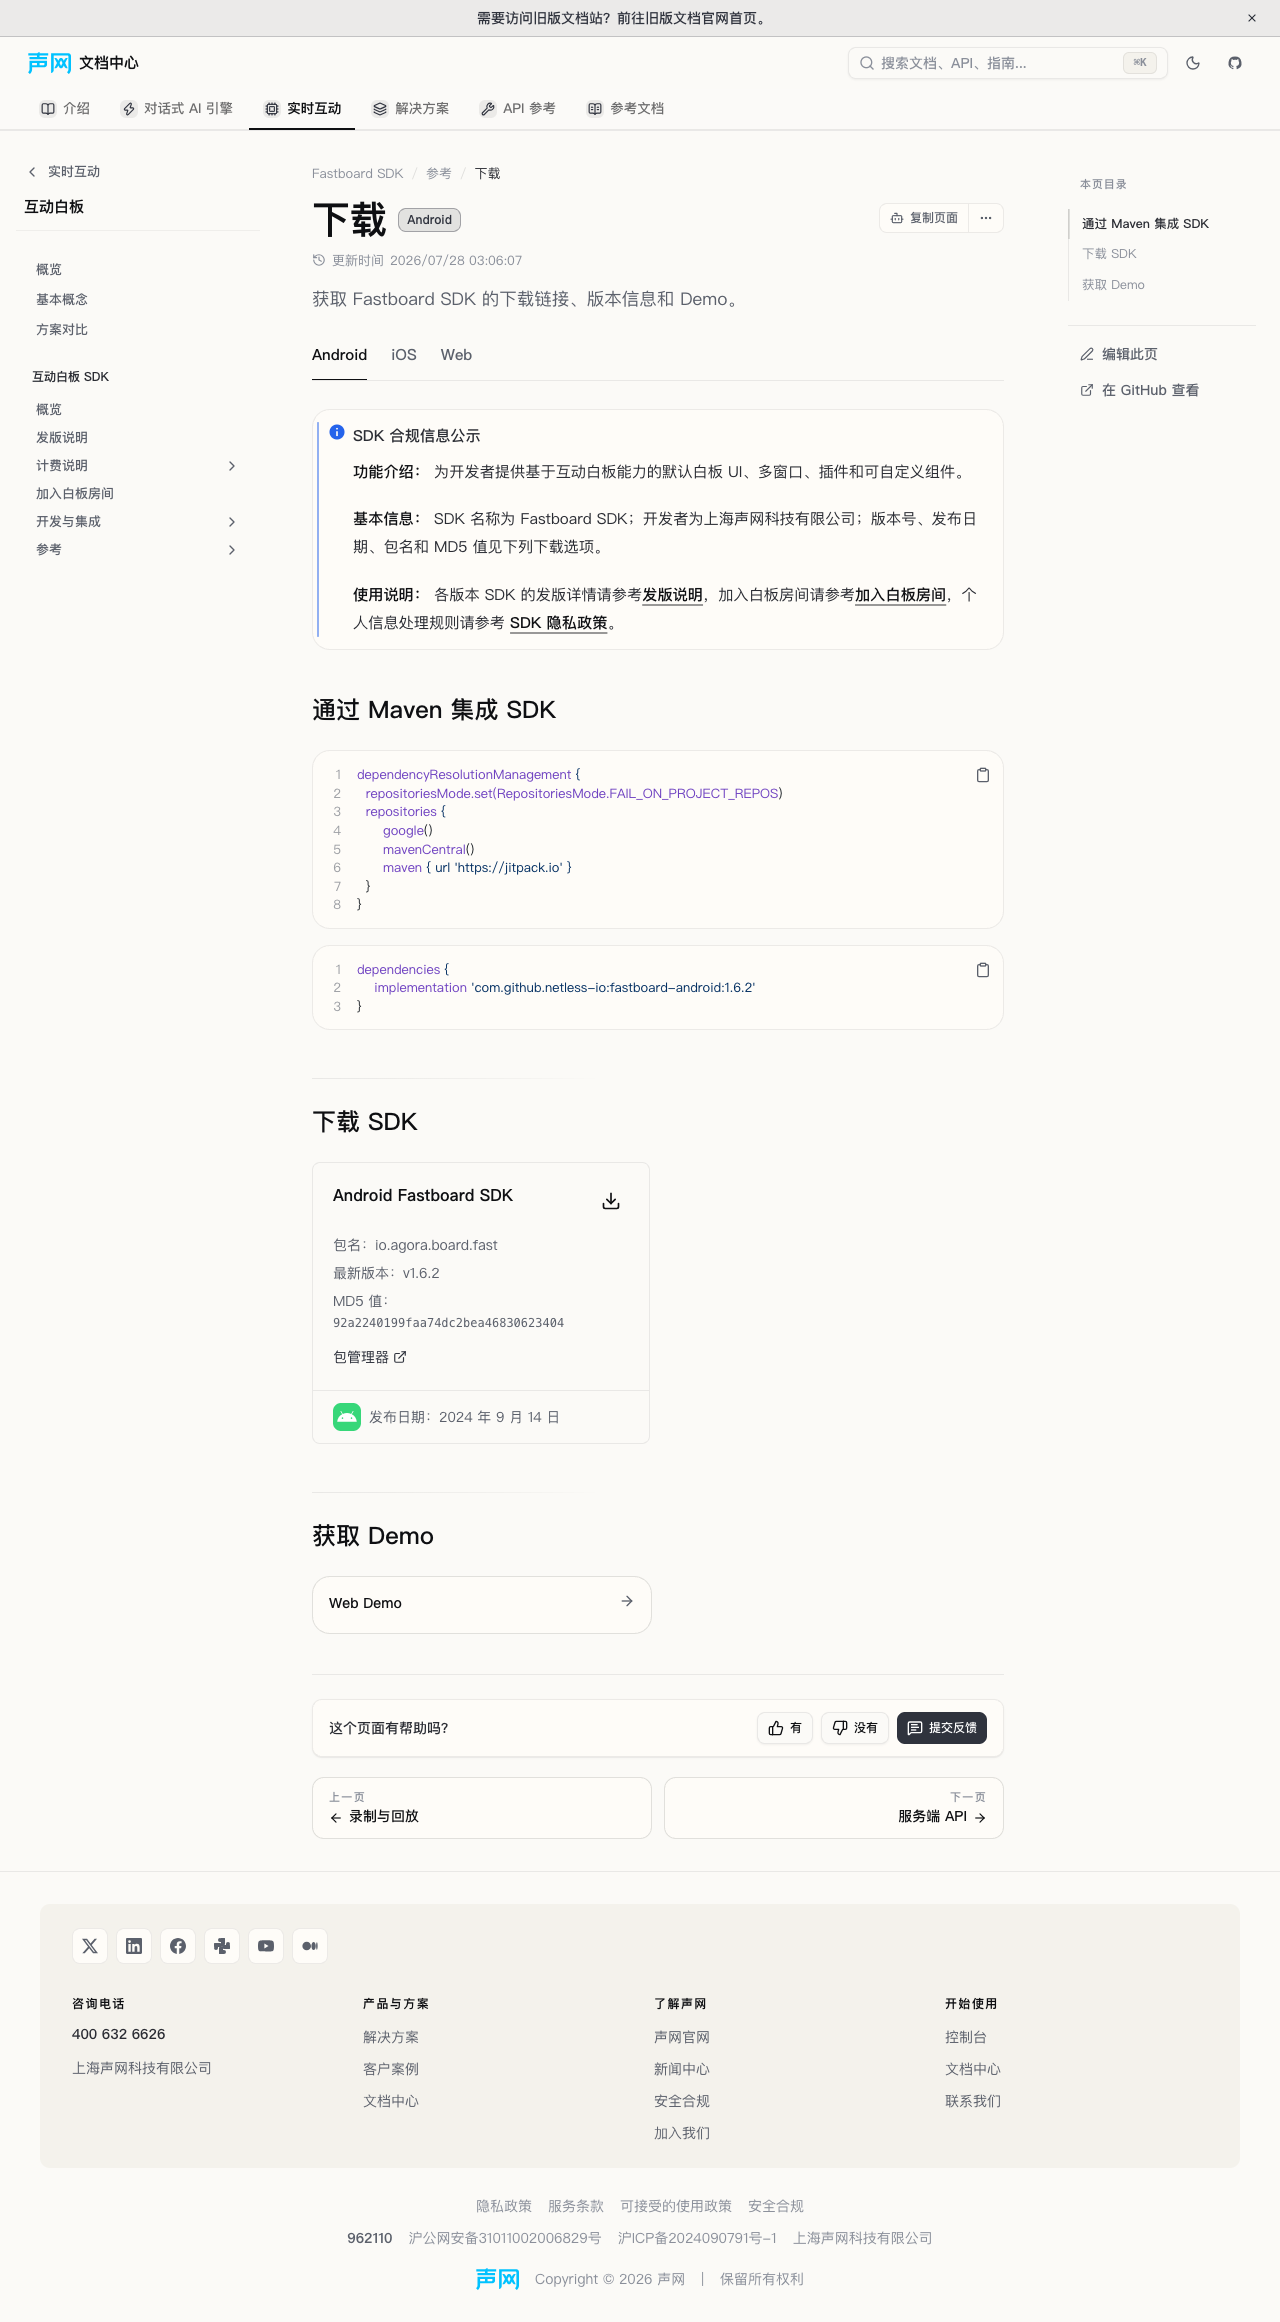
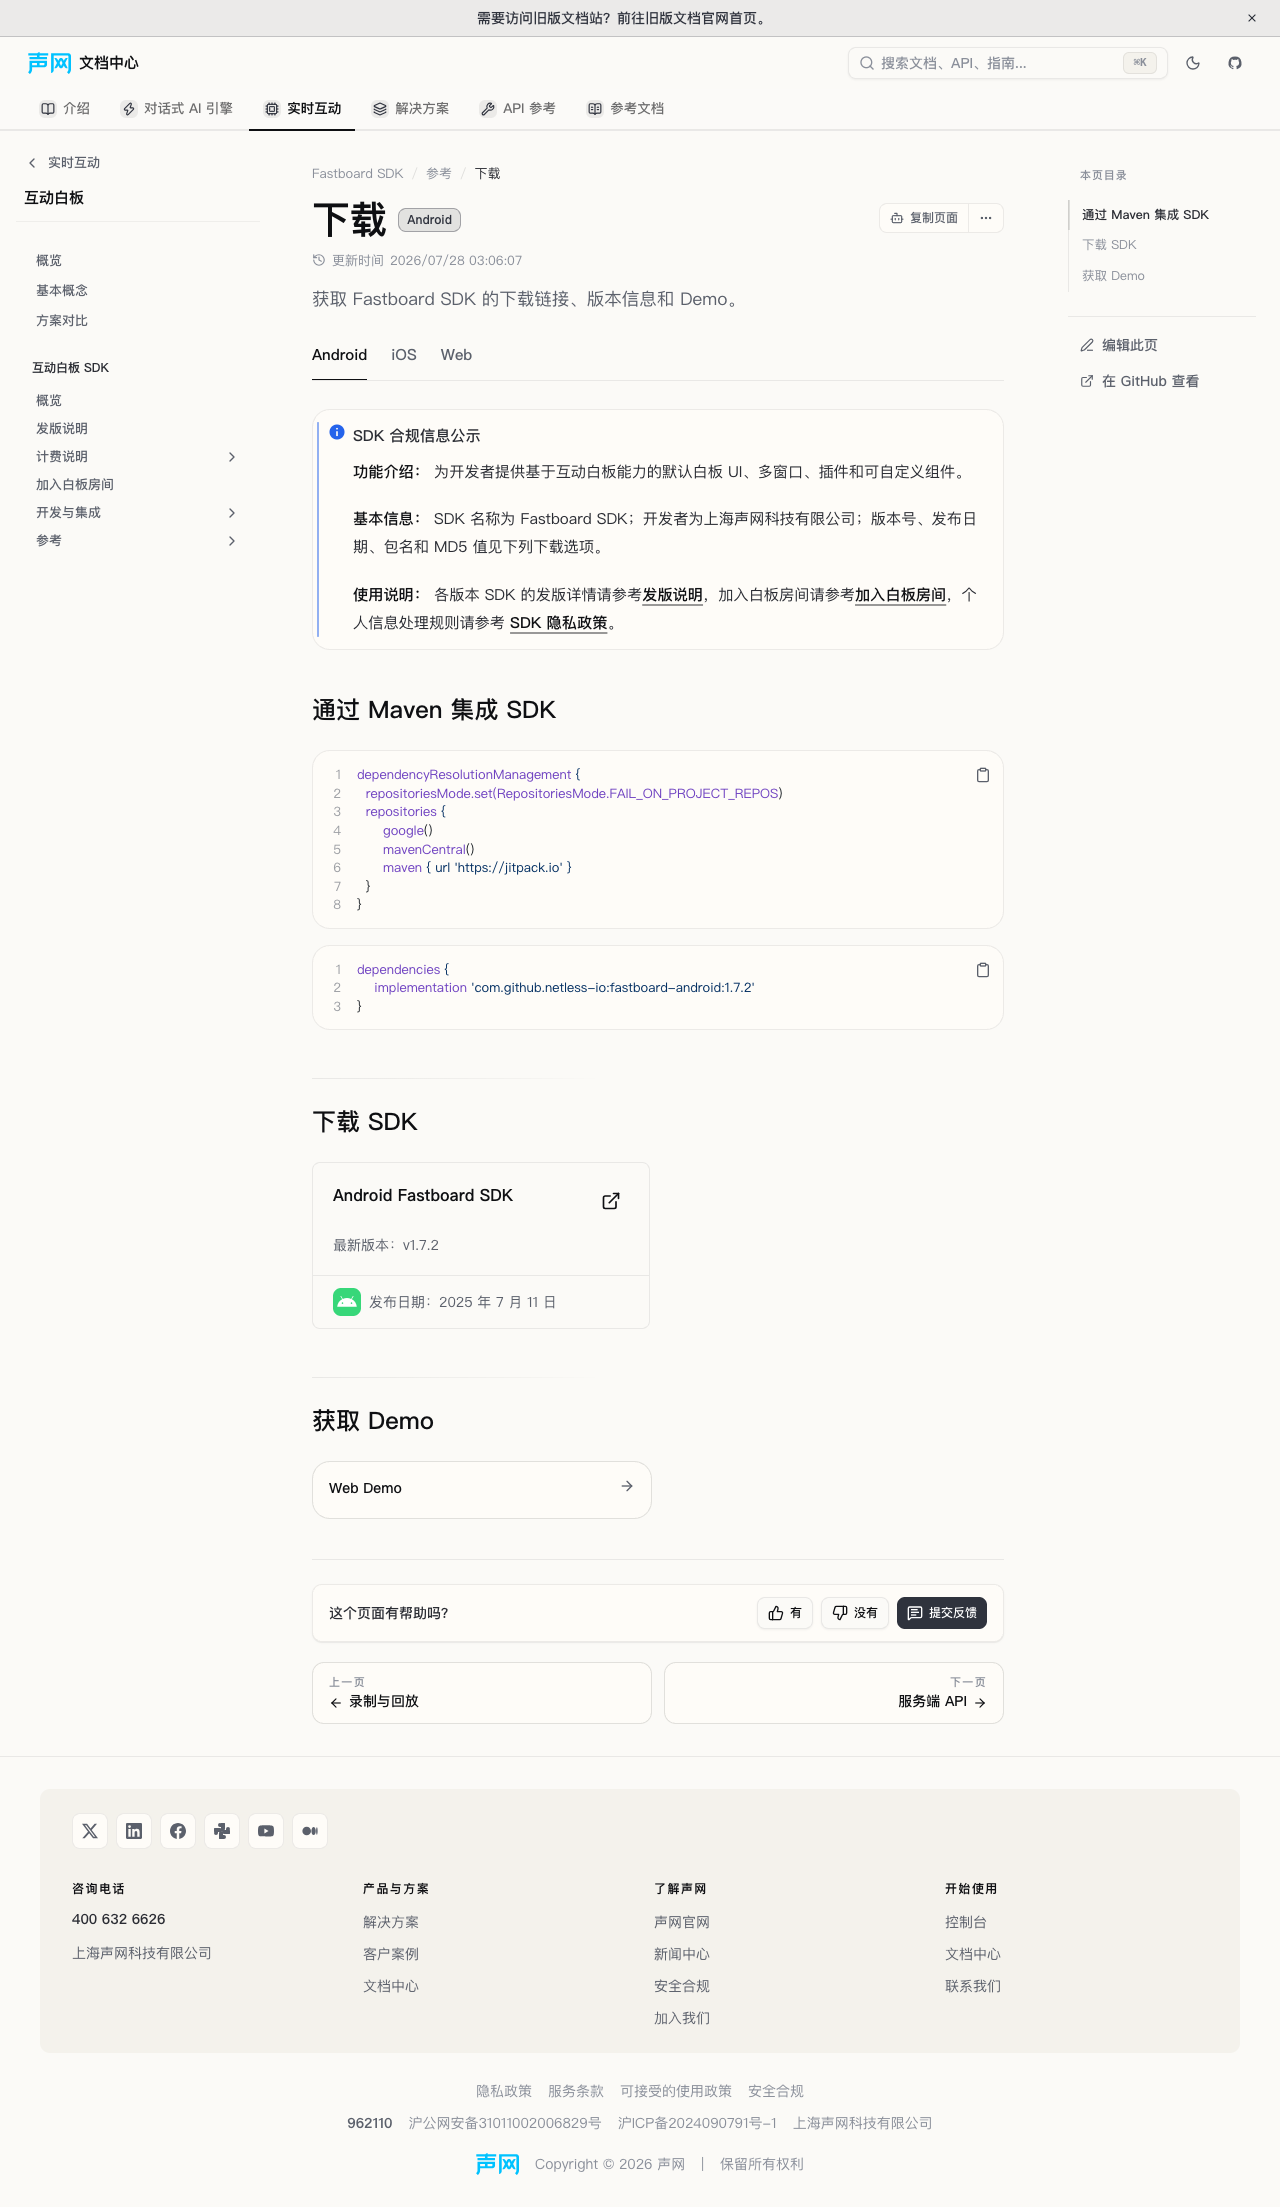
fix: resolve SDK download audit blockers

diff --git a/src/lib/cn-download-page-parity.test.ts b/src/lib/cn-download-page-parity.test.ts
@@ -1,4 +1,5 @@
-import { readFileSync } from 'node:fs';
+import { existsSync, readFileSync } from 'node:fs';
+import { resolve } from 'node:path';
 import { describe, expect, it } from 'vitest';
 
 const readDoc = (path: string) =>
@@ -35,20 +36,61 @@ describe('Chinese download page release constraints', () => {
   );
 
   it.each([
-    ['android', '1.6.2-fastboard-android'],
+    ['android', '1.7.2-fastboard-android'],
     ['ios', '1.4.2-fastboard-ios'],
-    ['web', '1.0.0-interactive-whiteboard-web'],
+    ['web', '1.1.0-interactive-whiteboard-web'],
   ])(
-    'keeps the source Fastboard %s release explicitly selected',
+    'keeps Fastboard %s downloads aligned with the latest release notes',
     (platform, id) => {
       const page = readDoc(
         `realtime-media/whiteboard/fastboard-sdk/reference/downloads/${platform}.mdx`,
       );
       expect(page).toContain(`versionIds={['${id}']}`);
+      const notes = readDoc(
+        'realtime-media/whiteboard/fastboard-sdk/reference/release-notes-fb.mdx',
+      );
+      const platformNotes = notes.split(
+        `<PlatformStructured platform="${platform}">`,
+      )[1];
+      const latest = platformNotes.match(/^## ([\d.]+) 版/m)?.[1];
+      expect(id.split('-')[0]).toBe(latest);
       if (platform === 'android')
-        expect(page).toContain('fastboard-android:1.6.2');
+        expect(page).toContain(`fastboard-android:${latest}`);
     },
   );
+
+  it.each(['android', 'ios'])(
+    'references available RTC %s Demo images',
+    (platform) => {
+      const page = readDoc(
+        `realtime-media/rtc/reference/downloads/${platform}.mdx`,
+      );
+      const images = [...page.matchAll(/(?:coverSrc|qrSrc):\s*'([^']+)'/g)].map(
+        (match) => match[1],
+      );
+      expect(images).toHaveLength(2);
+      for (const src of images) {
+        if (src.startsWith('/')) {
+          expect(
+            existsSync(resolve('public', src.slice(1))),
+            `Missing public asset: ${src}`,
+          ).toBe(true);
+        } else {
+          expect(new URL(src).protocol).toBe('https:');
+        }
+      }
+    },
+  );
+
+  it('uses the Shengwang Maven repository for RTC Android 4.7.0 integration', () => {
+    const page = readDoc('realtime-media/rtc/reference/downloads/android.mdx');
+    expect(page).toContain(
+      "maven { url = 'https://download.shengwang.cn/maven/' }",
+    );
+    for (const artifact of ['full-sdk', 'lite-sdk', 'voice-sdk']) {
+      expect(page).toContain(`cn.shengwang.rtc:${artifact}:4.7.0`);
+    }
+  });
 
   it('offers RTSA C cards and directs retired Java users to the sunset notice', () => {
     const page = readDoc('realtime-media/rtsa/reference/downloads.mdx');

diff --git a/src/components/docs-overview/rtc-sdk-downloads-data.zh-cn.ts b/src/components/docs-overview/rtc-sdk-downloads-data.zh-cn.ts
@@ -33,8 +33,6 @@ export const zhCNRtcSdkDownloadPlatforms: readonly SdkDownloadPlatform[] = [
             packageSize:
               'armeabi-v7a 7.27 MB；arm64-v8a 7.82 MB；x86 7.67 MB；x86_64 7.49 MB',
             packageName: 'io.agora.rtc2.voice',
-            packageManager:
-              'https://central.sonatype.com/artifact/cn.shengwang.rtc/voice-sdk/4.7.0/aar',
           }),
         ],
       },
@@ -50,8 +48,6 @@ export const zhCNRtcSdkDownloadPlatforms: readonly SdkDownloadPlatform[] = [
             packageSize:
               'armeabi-v7a 16.55 MB；arm64-v8a 17.17 MB；x86 17.81 MB；x86_64 17.44 MB',
             packageName: 'io.agora.rtc2.video',
-            packageManager:
-              'https://central.sonatype.com/artifact/cn.shengwang.rtc/full-sdk/4.7.0/aar',
           }),
           version('4.7.0-video-sdk-android-lite', '版本 4.7.0 Lite（最新）', {
             downloadLink:
@@ -61,8 +57,6 @@ export const zhCNRtcSdkDownloadPlatforms: readonly SdkDownloadPlatform[] = [
             packageSize:
               'armeabi-v7a 8.42 MB；arm64-v8a 9.02 MB；x86 9.08 MB；x86_64 8.92 MB',
             packageName: 'io.agora.rtc2.video',
-            packageManager:
-              'https://central.sonatype.com/artifact/cn.shengwang.rtc/lite-sdk/4.7.0/aar',
           }),
         ],
       },

diff --git a/src/components/docs-overview/sdk-downloads-data.zh-cn.ts b/src/components/docs-overview/sdk-downloads-data.zh-cn.ts
@@ -599,6 +599,7 @@ export const zhCNSdkDownloadPlatforms: readonly SdkDownloadPlatform[] = [
           {
             "id": "1.7.2-fastboard-android",
             "label": "版本 1.7.2 （最新）",
+            "releaseDate": "2025 年 7 月 11 日",
             "packageManager": "https://github.com/netless-io/fastboard-android/releases/tag/1.7.2"
           },
           {
@@ -1897,13 +1898,12 @@ export const zhCNSdkDownloadPlatforms: readonly SdkDownloadPlatform[] = [
           {
             "id": "1.1.0-interactive-whiteboard-web",
             "label": "版本 1.1.0 （最新）",
+            "releaseDate": "2025 年 7 月 11 日",
             "packageManager": "https://www.npmjs.com/package/@netless/fastboard/v/1.1.0"
           },
           {
             "id": "1.0.0-interactive-whiteboard-web",
             "label": "版本 1.0.0",
-            "downloadLink": "https://github.com/netless-io/fastboard",
-            "releaseDate": "2024 年 12 月 12 日",
             "packageManager": "https://www.npmjs.com/package/@netless/fastboard/v/1.0.0"
           },
           {

diff --git a/src/components/docs-overview/ProductSdkDownloads.test.tsx b/src/components/docs-overview/ProductSdkDownloads.test.tsx
@@ -3,6 +3,27 @@ import { describe, expect, it } from 'vitest';
 import { ProductSdkDownloads } from './ProductSdkDownloads';
 
 describe('ProductSdkDownloads', () => {
+  it.each([
+    ['android', '1.7.2-fastboard-android', '1.7.2'],
+    ['web', '1.1.0-interactive-whiteboard-web', '1.1.0'],
+  ])(
+    'offers the latest Fastboard %s release without a stale download',
+    (platform, id, version) => {
+      render(
+        <ProductSdkDownloads
+          product="fastboard"
+          platform={platform}
+          versionIds={[id]}
+        />,
+      );
+      expect(screen.getAllByRole('article')).toHaveLength(1);
+      expect(screen.getByText(`v${version}`)).toBeVisible();
+      expect(screen.getByText('发布日期：2025 年 7 月 11 日')).toBeVisible();
+      const link = screen.getByRole('link');
+      expect(link.getAttribute('href')).toContain(version);
+    },
+  );
+
   it('pins Fastboard without losing metadata from duplicate catalog records', () => {
     render(
       <ProductSdkDownloads

diff --git a/src/components/docs-overview/RtcSdkDownloads.test.tsx b/src/components/docs-overview/RtcSdkDownloads.test.tsx
@@ -39,6 +39,9 @@ describe('RtcSdkDownloads', () => {
     expect(screen.queryByRole('combobox')).not.toBeInTheDocument();
     expect(screen.queryByText('历史版本')).not.toBeInTheDocument();
     expect(
+      screen.queryByRole('link', { name: '包管理器' }),
+    ).not.toBeInTheDocument();
+    expect(
       screen.queryByRole('link', { name: /4\.6\.2/ }),
     ).not.toBeInTheDocument();
   });

diff --git a/docs/migration/cn-download-cards-followup-20261019.md b/docs/migration/cn-download-cards-followup-20261019.md
@@ -4,11 +4,11 @@
 
 ## 源到目标关系
 
-源快照：`AgoraIO/shengwang-doc-source@5d03551cf64cd057ccfe8d5b256d9c4778e8fbb1`。本次修复保持迁移快照中的产品版本约束，不代表升级方案到 SDK 最新版。
+源快照：`AgoraIO/shengwang-doc-source@5d03551cf64cd057ccfe8d5b256d9c4778e8fbb1`。在线 KTV 保留方案指定的 RTC 版本；Fastboard 下载页与发版说明冲突时，以各平台发版说明的最新版本为准，同时更新集成示例。
 
 | 源路径（相对源仓库） | 目标（相对 content/docs/zh-CN） | 修复及版本 |
 | --- | --- | --- |
-| `docs/whiteboard/fastboard-sdk/resources-fb.javascript.ios.android.mdx` | `realtime-media/whiteboard/fastboard-sdk/reference/downloads/{android,ios,web}.mdx` | 明确选取 Android 1.6.2、iOS 1.4.2、Web 1.0.0；合并同 ID 的目录记录以保留源卡片 MD5、包名、发布日期。 |
+| `docs/whiteboard/fastboard-sdk/resources-fb.javascript.ios.android.mdx`、`release-notes-fb.{android,ios,javascript}.mdx` | `realtime-media/whiteboard/fastboard-sdk/reference/downloads/{android,ios,web}.mdx` | 与发版说明一致：Android 1.7.2、iOS 1.4.2、Web 1.1.0；Android Maven 示例同步 1.7.2。新版本不沿用旧版 MD5。 |
 | `docs/online-ktv/online-ktv-sdk/resources.android.mdx` | `solutions/online-ktv/online-ktv-sdk/reference/downloads/android.mdx` | 两种 SDK 均选取 4.4.1，与 Gradle 示例一致；恢复源 MD5、发布日期和四种 ABI 包体积。 |
 | `docs/online-ktv/online-ktv-sdk/resources.ios.mdx` | `solutions/online-ktv/online-ktv-sdk/reference/downloads/ios.mdx` | 两种 SDK 均选取 4.4.0，与 CocoaPods 示例一致；恢复源 MD5、发布日期及包体积。 |
 | `docs/rtsa/resources.c.mdx`（C PlatformFilter） | `realtime-media/rtsa/reference/downloads.mdx`、`src/components/docs-overview/rtsa-sdk-downloads-data.zh-cn.ts` | 恢复 18 个架构卡片，1.10.1、2026 年 9 月 4 日；逐项核对链接、标题、版本、日期，全部与源一致。 |
@@ -16,18 +16,21 @@
 
 ## 实现
 
-复用 `ProductSdkDownloads` / `SdkDownloadCard`。增加精确 `versionIds` 选择；指定 ID 不存在时抛错，避免错误回退至全局最新版本。既有 `versionIdPrefixes` 语言/架构分组行为保持兼容。RTSA 数据仅用于 RTSA C 页面，不加入全局 SDK 目录。
+复用 `ProductSdkDownloads` / `SdkDownloadCard`。增加精确 `versionIds` 选择；匹配产品内指定 ID 不存在时抛错，避免错误回退至全局最新版本。既有 `versionIdPrefixes` 语言/架构分组行为保持兼容。RTSA 数据仅用于 RTSA C 页面，不加入全局 SDK 目录。
+
+RTC Demo 封面和 iOS 二维码复用已验证可加载的 `web-cdn.agora.io/docs-portal/img/rtc/` 图片。Android 4.7.0 卡片移除错误的 Maven Central 辅助链接；集成入口保留在正文的声网 Maven 仓库指引，Full/Lite/Voice POM 均在该仓库验证为 200 且版本、坐标正确。
 
 ## 验证
 
-- 定向测试 68 项通过，覆盖 KTV 四个包、Fastboard 重复目录记录的元数据合并、无效版本 ID、RTSA 18 个架构、页面调用，以及原 RTC/二维码卡片行为。
+- 定向测试 78 项通过，覆盖 KTV 四个包、Fastboard 最新发版与页面调用一致性、历史记录元数据合并、无效版本 ID、RTSA 18 个架构、RTC 图片本地路径存在性和 Maven 集成仓库，以及原 RTC/二维码卡片行为。
 - `src/lib/cn-download-page-parity.test.ts` 约束 MDX 页面实际使用的版本 ID，防止只测试组件而遗漏正文调用。
 - `bun run types:check` 与修改页面内部链接审计通过。
 - 本地中文预览使用 `VITE_DOCS_REGION=cn bun run dev -- --host 127.0.0.1 --port 4176`；已核对 RTSA 18 张卡片、无 Java 旧包链接，以及 Fastboard/KTV 各平台卡片版本与下载地址。
-- 全量 Vitest：2797 通过、38 失败、2 跳过；37 项失败在不含本轮补丁的 `c7832eeb7` 基线复现，剩余 1 项是 Fastboard API 侧栏测试的 5 秒超时。使用 `--testTimeout=20000` 单独复测该组，23 项通过、40 项未选中。完整生产构建未在本轮运行。
+- 首轮全量 Vitest：2797 通过、38 失败、2 跳过；37 项失败在不含下载页后续补丁的 `c7832eeb7` 基线复现，剩余 1 项是 Fastboard API 侧栏测试的 5 秒超时。使用 `--testTimeout=20000` 单独复测该组，23 项通过、40 项未选中。最终提交的 CI 和复测结果以 PR 描述为准，不把基线失败计为通过。
 
 ## 本地页面截图
 
-- [Fastboard Android：正文与卡片均为 1.6.2](screenshots/cn-downloads-20261019/fastboard.png)
+- [Fastboard Android：正文与卡片均为 1.7.2](screenshots/cn-downloads-20261019/fastboard.png)
+- [RTC iOS：封面与二维码已实际加载](screenshots/cn-downloads-20261019/rtc-ios.png)
 - [在线 KTV Android：正文与卡片均为 4.4.1](screenshots/cn-downloads-20261019/ktv-android.png)
 - [RTSA：18 张 C SDK 卡片和 Java 已下架说明](screenshots/cn-downloads-20261019/rtsa.png)
